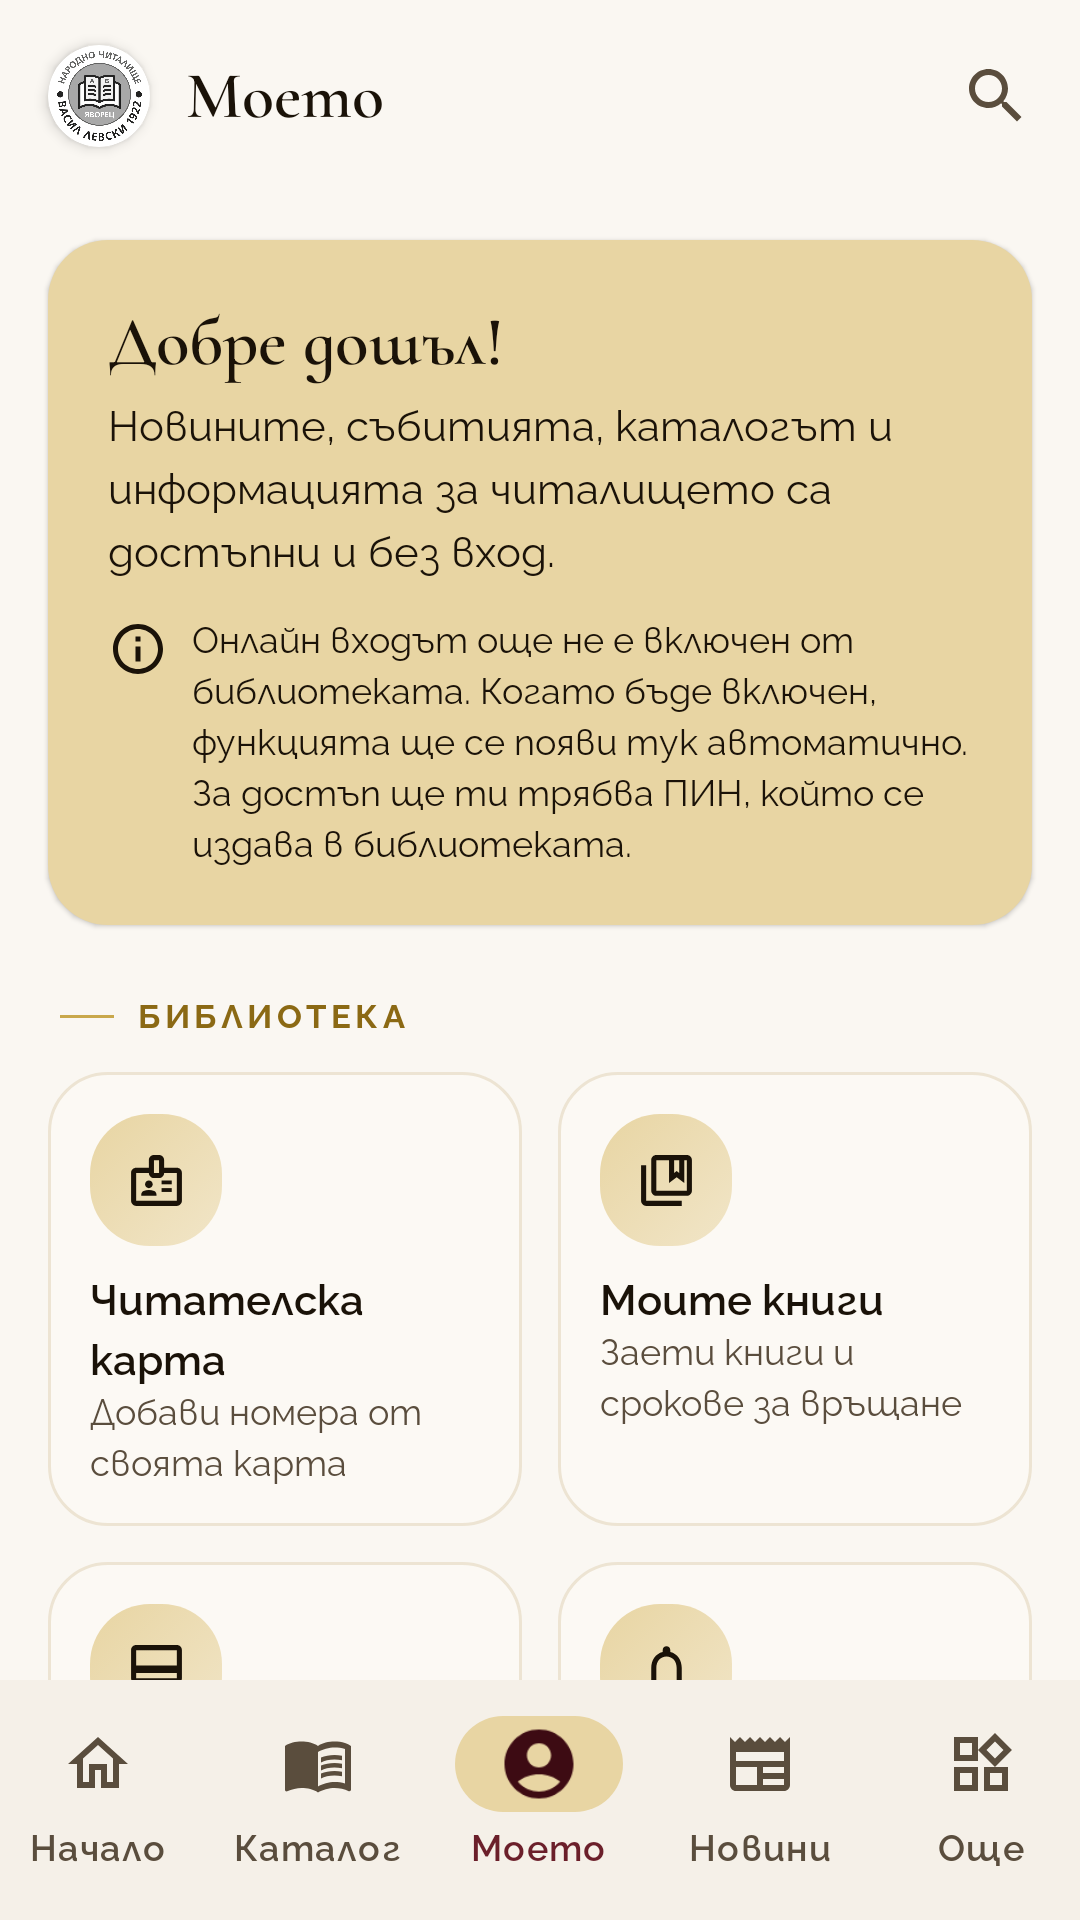
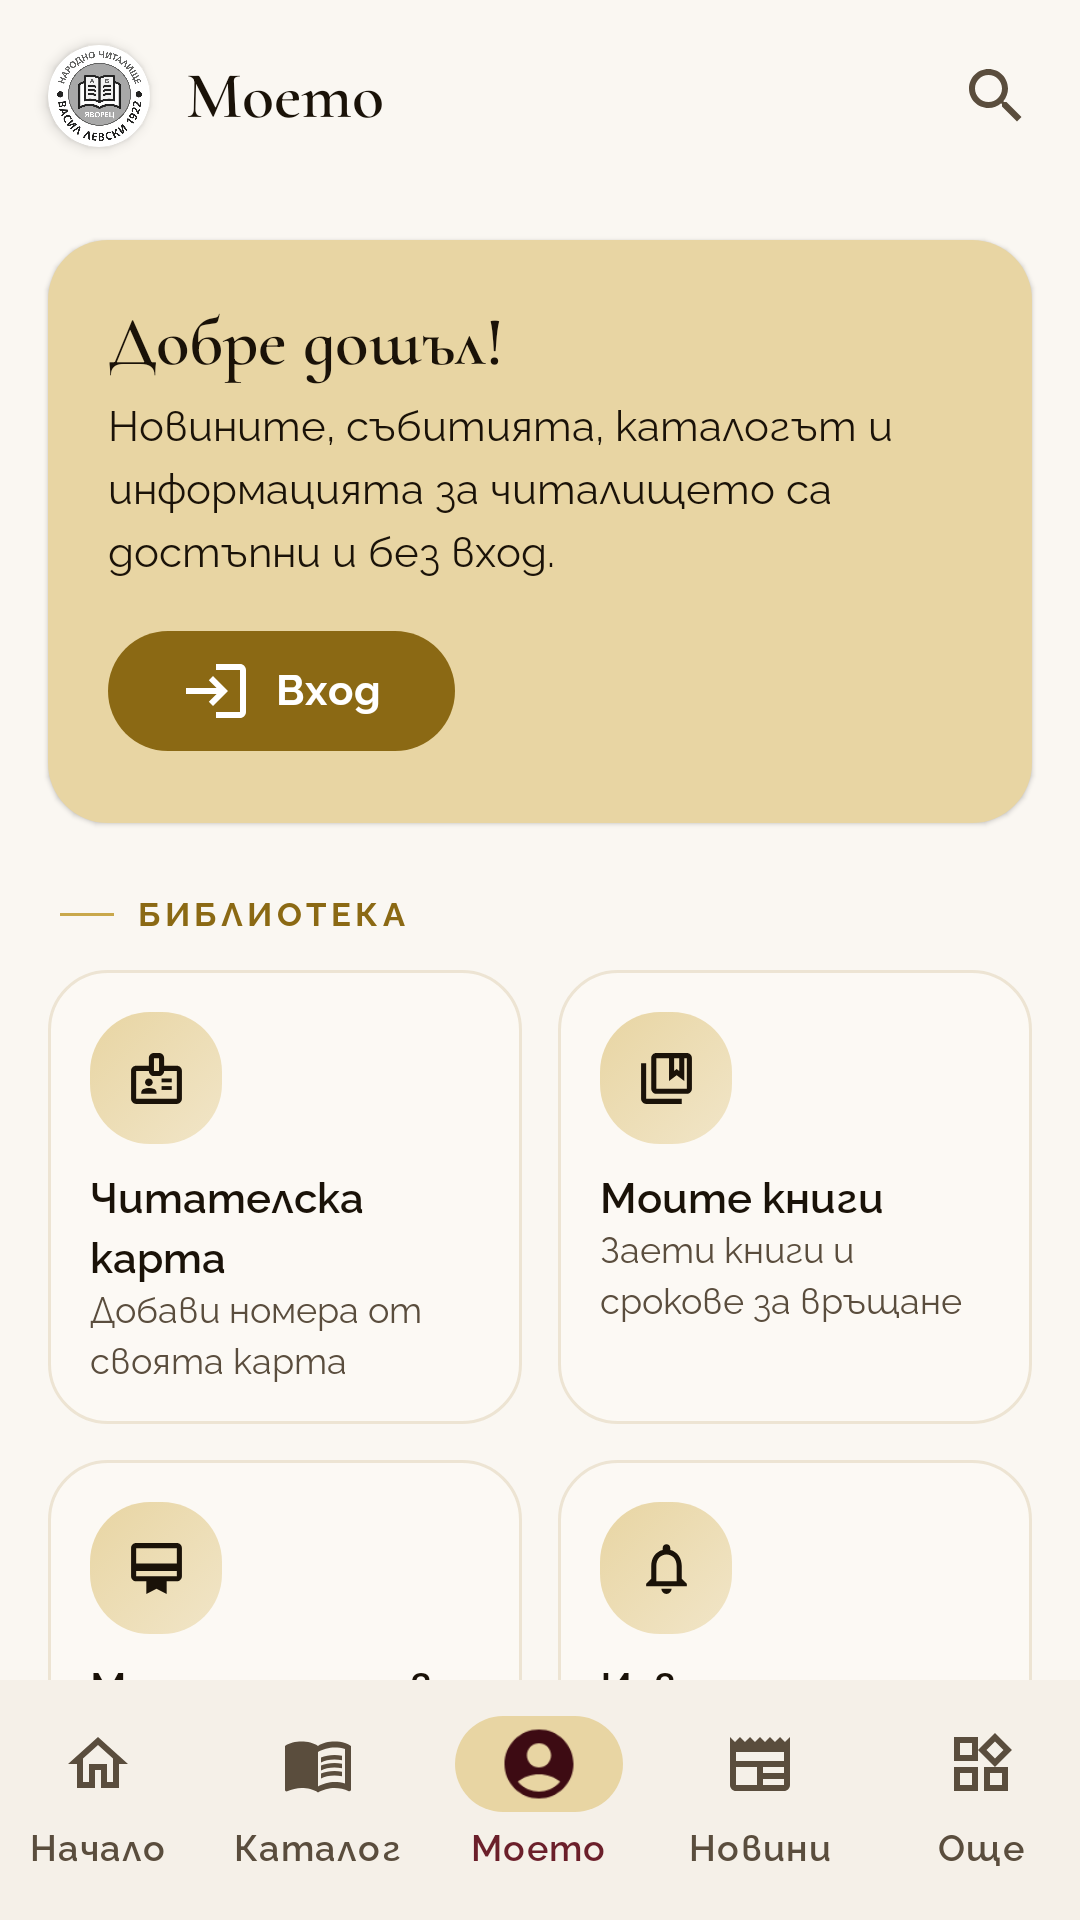
store: екранни снимки за Google Play (1080×1920)
Claude-Session: https://claude.ai/code/session_01RYYSxVu9vthp794EkkqTGn

diff --git a/store/screenshots/README.md b/store/screenshots/README.md
@@ -1,14 +1,14 @@
 # Екранни снимки за Google Play
 
-Тук се поставят екранните снимки (PNG, 1080×2400 или подобно 9:16), направени
-от `prodRelease` build срещу живия сайт chyavorec.org:
+1080×1920 (9:16, телефон), генерирани от `PlayScreenshotTest` в CI с примерни данни.
+Последните версии винаги са в клон `screenshots` (файлове `play-*.png`).
 
-1. `01-home.png` — Начало
-2. `02-catalog.png` — Каталог с резултати
-3. `03-book.png` — Страница на книга
-4. `04-news.png` — Новина
-5. `05-events-calendar.png` — Събития (календар)
-6. `06-card.png` — Читателска карта
+| Файл | Екран |
+|---|---|
+| `01-home-light.png` | Начало (светла тема) |
+| `02-home-dark.png` | Начало (тъмна тема) |
+| `03-catalog.png` | Електронен каталог |
+| `04-my.png` | „Моето“ — вход, читателска карта, моите книги |
+| `05-more.png` | „Още“ — съобщения, събития, дейности |
 
-Android Studio → Running Devices → „Take screenshot“, или
-`adb exec-out screencap -p > 01-home.png`.
+В Play Console → Обява в магазина → Екранни снимки на телефона качете и петте.
